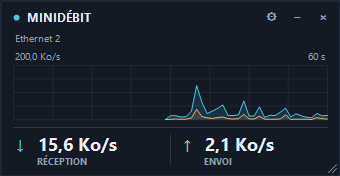
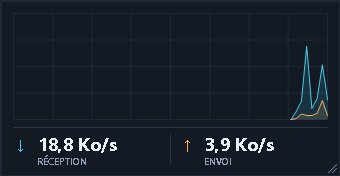
Bandeau au survol du widget
Le widget masque désormais son bandeau supérieur tant que la souris ne le survole pas, ce qui augmente la hauteur utile du graphique tout en gardant les débits visibles. Ajout du paramètre --capture-hover pour produire une capture du widget en mode survol, et mise à jour de la documentation et des images associées.

diff --git a/Bandwidth/Widget.cs b/Bandwidth/Widget.cs
@@ -22,6 +22,7 @@ public sealed class Widget : Form
     private Icon? ownedIcon;
     private Sample current;
     private int hover = -1;
+    private bool pointerInside;
     private int tickCount;
     private bool resizing;
     private Point resizeOrigin;
@@ -34,6 +35,7 @@ public sealed class Widget : Form
     private float DpiScale => DeviceDpi / 96f;
     private float LogicalWidth => ClientSize.Width / DpiScale;
     private float LogicalHeight => ClientSize.Height / DpiScale;
+    private bool HeaderVisible => pointerInside || resizing;
     private Color Background => settings.Dark ? Color.FromArgb(20, 26, 36) : Color.FromArgb(246, 249, 253);
     private Color Foreground => settings.Dark ? Color.FromArgb(233, 240, 250) : Color.FromArgb(27, 42, 61);
     private Color Muted => settings.Dark ? Color.FromArgb(145, 161, 184) : Color.FromArgb(94, 115, 141);
@@ -123,7 +125,7 @@ public sealed class Widget : Form
         {
             var text = $"MiniDébit · ↓ {Units.Rate(current.Down, settings.Bits)} · ↑ {Units.Rate(current.Up, settings.Bits)}";
             tray.Text = text.Length > 63 ? text[..63] : text;
-            tooltip.SetToolTip(this, $"{monitor.Status}\nSession : ↓ {Units.Volume(monitor.TotalDown)}   ↑ {Units.Volume(monitor.TotalUp)}\nClic droit ou double-clic : paramètres");
+            tooltip.SetToolTip(this, $"{monitor.Status}\nSession : ↓ {Units.Volume(monitor.TotalDown)}   ↑ {Units.Volume(monitor.TotalUp)}\nÉchelle : {Units.Rate(scale, settings.Bits)} • Historique : {settings.HistorySeconds} s\nClic droit ou double-clic : paramètres");
         }
         if (Visible) Invalidate();
     }
@@ -133,6 +135,23 @@ public sealed class Widget : Form
         var power = Math.Pow(10, Math.Floor(Math.Log10(Math.Max(1, value))));
         var ratio = value / power;
         return (ratio <= 1 ? 1 : ratio <= 2 ? 2 : ratio <= 5 ? 5 : 10) * power;
+    }
+
+    internal void CapturePreview(string path, bool hovered)
+    {
+        bool previous = pointerInside;
+        try
+        {
+            if (hovered) OnMouseEnter(EventArgs.Empty); else OnMouseLeave(EventArgs.Empty);
+            Directory.CreateDirectory(Path.GetDirectoryName(Path.GetFullPath(path))!);
+            using var bitmap = new Bitmap(ClientSize.Width, ClientSize.Height);
+            DrawToBitmap(bitmap, ClientRectangle);
+            bitmap.Save(path, System.Drawing.Imaging.ImageFormat.Png);
+        }
+        finally
+        {
+            if (previous) OnMouseEnter(EventArgs.Empty); else OnMouseLeave(EventArgs.Empty);
+        }
     }
 
     protected override void OnPaint(PaintEventArgs e)
@@ -146,16 +165,23 @@ public sealed class Widget : Form
         g.FillRectangle(back, 0, 0, w, h);
         using var border = new Pen(Grid);
         g.DrawRectangle(border, .5f, .5f, w - 1, h - 1);
-        using var accent = new SolidBrush(DownColor);
-        g.FillEllipse(accent, 13, 14, 6, 6);
-        DrawText(g, "MINIDÉBIT", titleFont, Foreground, new RectangleF(25, 8, 105, 20));
-        DrawText(g, monitor.Status, smallFont, Muted, new RectangleF(13, 30, w - 26, 16));
-        DrawButton(g, 0, "⚙", w - 81);
-        DrawButton(g, 1, "−", w - 55);
-        DrawButton(g, 2, "×", w - 29);
-        var chart = new RectangleF(13, 65, w - 26, h - 122);
-        DrawText(g, Units.Rate(scale, settings.Bits), smallFont, Muted, new RectangleF(13, 49, 160, 14));
-        DrawText(g, $"{settings.HistorySeconds} s", smallFont, Muted, new RectangleF(w - 64, 49, 51, 14), StringAlignment.Far);
+        if (HeaderVisible)
+        {
+            using var accent = new SolidBrush(DownColor);
+            g.FillEllipse(accent, 13, 14, 6, 6);
+            DrawText(g, "MINIDÉBIT", titleFont, Foreground, new RectangleF(25, 8, 105, 20));
+            DrawText(g, monitor.Status, smallFont, Muted, new RectangleF(13, 30, w - 26, 16));
+            DrawButton(g, 0, "⚙", w - 81);
+            DrawButton(g, 1, "−", w - 55);
+            DrawButton(g, 2, "×", w - 29);
+        }
+        float chartTop = HeaderVisible ? 65 : 13;
+        var chart = new RectangleF(13, chartTop, w - 26, h - chartTop - 57);
+        if (HeaderVisible)
+        {
+            DrawText(g, Units.Rate(scale, settings.Bits), smallFont, Muted, new RectangleF(13, chartTop - 16, 160, 14));
+            DrawText(g, $"{settings.HistorySeconds} s", smallFont, Muted, new RectangleF(w - 64, chartTop - 16, 51, 14), StringAlignment.Far);
+        }
         using (var gridPen = new Pen(Grid, .6f) { DashStyle = DashStyle.Dot })
         {
             for (int i = 0; i <= 4; i++)
@@ -227,6 +253,7 @@ public sealed class Widget : Form
 
     private int ButtonAt(Point point)
     {
+        if (!HeaderVisible) return -1;
         var x = point.X / DpiScale;
         var y = point.Y / DpiScale;
         if (y < 6 || y > 30) return -1;
@@ -241,6 +268,7 @@ public sealed class Widget : Form
     protected override void OnMouseMove(MouseEventArgs e)
     {
         base.OnMouseMove(e);
+        if (!pointerInside) { pointerInside = true; Invalidate(); }
         if (resizing)
         {
             var position = MousePosition;
@@ -253,7 +281,28 @@ public sealed class Widget : Form
         Cursor = e.X > Width - 15 * DpiScale && e.Y > Height - 15 * DpiScale ? Cursors.SizeNWSE : next >= 0 ? Cursors.Hand : Cursors.Default;
     }
 
-    protected override void OnMouseLeave(EventArgs e) { base.OnMouseLeave(e); hover = -1; Invalidate(); }
+    protected override void OnMouseEnter(EventArgs e)
+    {
+        base.OnMouseEnter(e);
+        pointerInside = true;
+        Invalidate();
+    }
+
+    protected override void OnMouseLeave(EventArgs e)
+    {
+        base.OnMouseLeave(e);
+        pointerInside = false;
+        hover = -1;
+        Invalidate();
+    }
+
+    protected override void OnVisibleChanged(EventArgs e)
+    {
+        base.OnVisibleChanged(e);
+        pointerInside = Visible && ClientRectangle.Contains(PointToClient(MousePosition));
+        hover = -1;
+        Invalidate();
+    }
 
     protected override void OnMouseDown(MouseEventArgs e)
     {
@@ -285,7 +334,12 @@ public sealed class Widget : Form
     protected override void OnMouseCaptureChanged(EventArgs e)
     {
         base.OnMouseCaptureChanged(e);
-        if (!Capture) resizing = false;
+        if (!Capture)
+        {
+            resizing = false;
+            pointerInside = ClientRectangle.Contains(PointToClient(MousePosition));
+            Invalidate();
+        }
     }
 
     protected override bool ProcessCmdKey(ref Message msg, Keys keyData)

diff --git a/Bandwidth/Program.cs b/Bandwidth/Program.cs
@@ -10,6 +10,7 @@ internal static class Program
     {
         ApplicationConfiguration.Initialize();
         var capture = Argument(args, "--capture");
+        var captureHover = Argument(args, "--capture-hover");
         var captureSettings = Argument(args, "--capture-settings");
         var report = Argument(args, "--smoke-report");
         if (captureSettings is not null)
@@ -30,14 +31,15 @@ internal static class Program
             return 0;
         }
         using var mutex = new Mutex(true, @"Local\MiniDebit.Widget", out var first);
-        if (!first && capture is null && report is null)
+        if (!first && capture is null && captureHover is null && report is null)
         {
             MessageBox.Show("MiniDébit est déjà ouvert. Retrouvez son icône près de l’horloge.", "MiniDébit");
             return 0;
         }
-        var settings = capture is not null || report is not null ? new Settings { AlwaysOnTop = false } : Settings.Load();
-        using var window = new Widget(settings, capture is not null || report is not null);
-        if (capture is not null || report is not null)
+        bool diagnostic = capture is not null || captureHover is not null || report is not null;
+        var settings = diagnostic ? new Settings { AlwaysOnTop = false } : Settings.Load();
+        using var window = new Widget(settings, diagnostic);
+        if (diagnostic)
         {
             var process = Process.GetCurrentProcess();
             var startCpu = process.TotalProcessorTime;
@@ -50,13 +52,8 @@ internal static class Program
                 finish.Stop();
                 try
                 {
-                    if (capture is not null)
-                    {
-                        Directory.CreateDirectory(Path.GetDirectoryName(Path.GetFullPath(capture))!);
-                        using var bitmap = new Bitmap(window.ClientSize.Width, window.ClientSize.Height);
-                        window.DrawToBitmap(bitmap, window.ClientRectangle);
-                        bitmap.Save(capture, System.Drawing.Imaging.ImageFormat.Png);
-                    }
+                    if (capture is not null) window.CapturePreview(capture, false);
+                    if (captureHover is not null) window.CapturePreview(captureHover, true);
                     if (report is not null)
                     {
                         process.Refresh();

diff --git a/README.md b/README.md
@@ -4,6 +4,10 @@ Petit widget Windows de surveillance du trafic réseau, inspiré de la capture f
 
 ![Widget en fonctionnement](docs/widget.png)
 
+Au survol :
+
+![Widget survolé](docs/widget-hover.png)
+
 ## Lancer
 
 Double-cliquer sur **Lancer.cmd**, ou sur **dist\MiniDebit\MiniDebit.exe**. Garder les fichiers du dossier `dist\MiniDebit` ensemble.
@@ -15,6 +19,7 @@ La distribution inclut le programme, ses fichiers .NET et ce guide ; elle n’em
 ## Utilisation
 
 - **Glisser la fenêtre** pour la déplacer ; tirer son coin inférieur droit pour la redimensionner.
+- Le **bandeau supérieur** (titre, carte réseau, boutons, échelle et durée) apparaît uniquement lorsque la souris survole le widget. Hors survol, le graphique récupère 52 pixels de hauteur ; les débits restent visibles en bas.
 - **Roue dentée**, **double-clic** ou **clic droit → Paramètres** : configurer le widget.
 - **−** ou **Échap** : masquer le widget dans la zone de notification près de l’horloge. Son icône peut se trouver dans le menu des icônes masquées de Windows.
 - **Double-clic sur l’icône** : afficher le widget.
@@ -78,5 +83,6 @@ New-Item -ItemType Directory -Path artifacts -Force | Out-Null
 Le diagnostic ferme l’application après 32 secondes. Il mesure la mémoire et le temps CPU pendant environ 30 secondes après une phase de démarrage de 2 secondes. Le pourcentage CPU est exprimé par rapport à **un cœur**, pas à l’ensemble du processeur. Ces mesures varient selon l’ordinateur, le DPI, l’intervalle, la taille du graphique et le trafic.
 
 Une capture de la fenêtre des paramètres peut être produite avec `--capture-settings chemin.png`.
+Ajouter `--capture-hover chemin.png` au diagnostic pour capturer aussi le bandeau affiché au survol, sur le même relevé de trafic.
 
 Les compteurs sont lus avec l’API Windows exposée par [.NET NetworkInterface.GetIPStatistics](https://learn.microsoft.com/en-us/dotnet/api/system.net.networkinformation.networkinterface.getipstatistics). Le temps entre relevés est mesuré par une horloge monotone ; l’ajout, le retrait ou la remise à zéro des compteurs d’une carte ne produit pas de pic artificiel.
